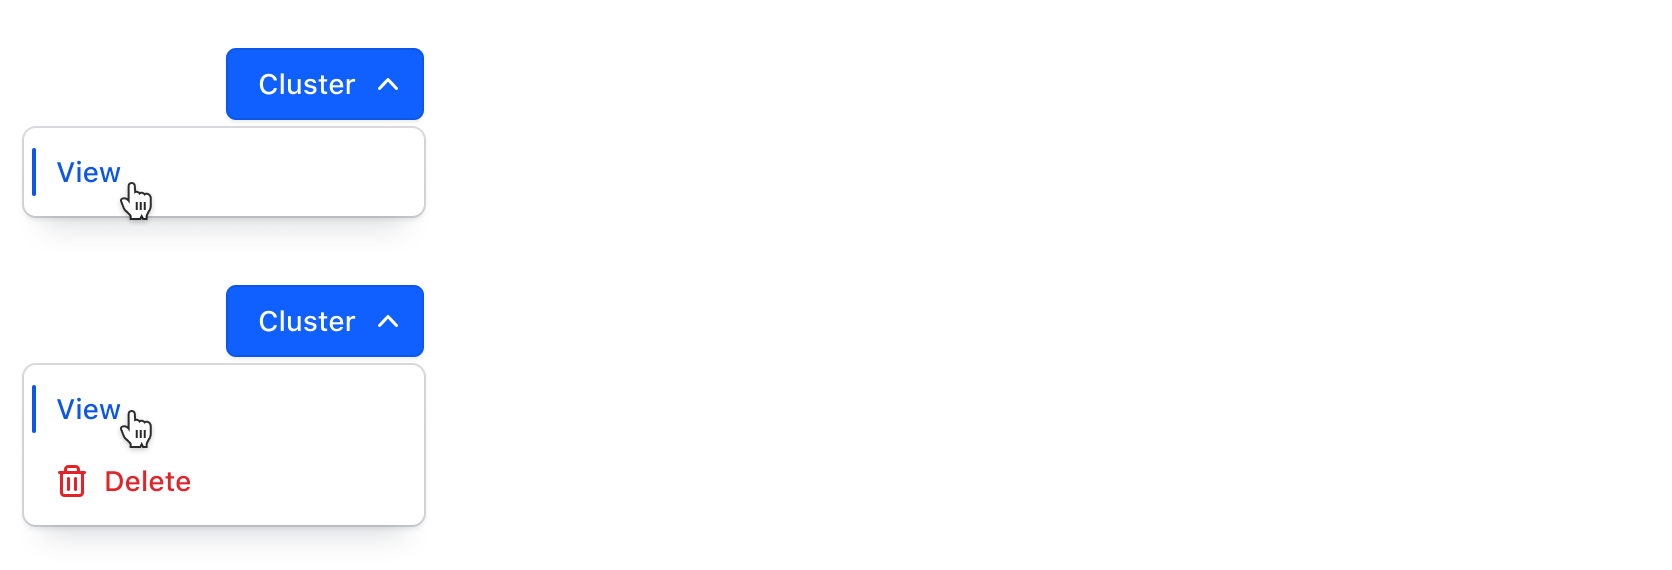
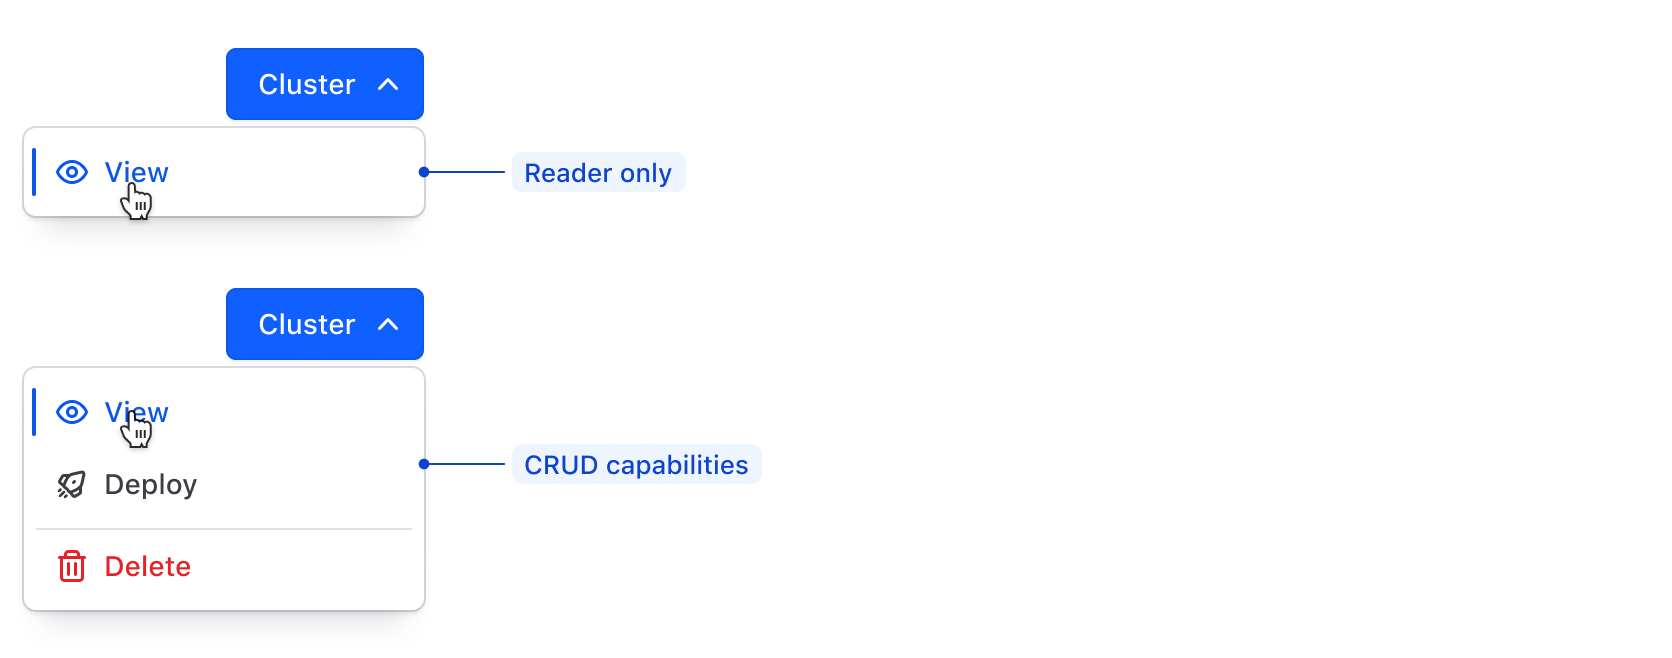
Starting place for rewording of this section.

diff --git a/website/docs/patterns/disabled-patterns/partials/guidelines/guidelines.md b/website/docs/patterns/disabled-patterns/partials/guidelines/guidelines.md
@@ -1,16 +1,24 @@
 ### Permissions 
 
-Hide navigation for pages that the user doesn’t have permission to any aspect of CRUD. Show the user what permissions they’re missing if they hit a 403 error. Hide actions that a user doesn’t have appropriate permissions for if it does not impact a flow they do have permission for. 
+When a user does not have CRUD permissions, hide those related actions.
 
-If the role **viewer** cannot **deploy a cluster**, they should not see the action
+In this example, our user's role is **viewer** and they cannot **deploy** or **destroy** a cluster. An explanation is not needed as users understand that their account has limited permissions and that they require an additional user's help to gain these permissions (often someone with admin or similar roles).
 
-![Non-tabular data set](/assets/patterns/disabled-patterns/permissions-example.png)
+![Image showing two dropdown with lists open, one with only one menu item that is reader specific, while the other has more options that allow for further capabilities.](/assets/patterns/disabled-patterns/permissions-example.png)
 
-![Non-tabular data set](/assets/patterns/disabled-patterns/permissions-example-3.png)
+In scenarios where a user lands on a 403 error page, provide a reason why with guidance so that users understand what steps they can take to rectify the error. Having call to actions provide a path forward so that users don't feel stuck.
+
+![Showing a 403 error page with information about what is going on, with a way to go back and a way to log in with a different token](/assets/patterns/disabled-patterns/permissions-example-3.png)
+
+### Conditional availability
+
+When a feature or funciton is conditionally available depending on other conditions that must be met, ensure that the user is aware of those conditions by either displaying a message in place of the call to action or the entire section.
 
 ### Upgrading
 
-Enable If the user has permission to upgrade. In some cases, it may also be worth informing to users what they could do if they did have permission, but be mindful of not annoying users or making them feel advertised to. 
+If a user has permissions to upgrade their account, show features that give a user the opportunity to learn more about these features.
+
+In this example, our user is on the lowest paid tier, and they are an individual account with the ability to upgrade. Showing 
 
 ### Updating
 

diff --git a/website/docs/patterns/disabled-patterns/partials/guidelines/overview.md b/website/docs/patterns/disabled-patterns/partials/guidelines/overview.md
@@ -1,6 +1,6 @@
-When it comes to content display, there are three options that can be taken:
-- Show the content/element to the user and enable interactivity
-- Show the content/element as disabled
-- Hide the content/element completely
+Disabling elements should be used sparingly because of accessibility concerns. Non-sighted users will not be able to navigate to or interact with disabled elements rendering them non-existant for assistive technology. Here are some alternative paths one can take:
+- Show the content/element as enabled and is interactive.
+- Hide the content/element, but show information regarding their limited access.
+- Hide the content/element, with no provided context.
 
-This documentation will explain how we approach these decision across the platform.
+This documentation will explain how we approach these decisions and why these alternatives are preferred.
